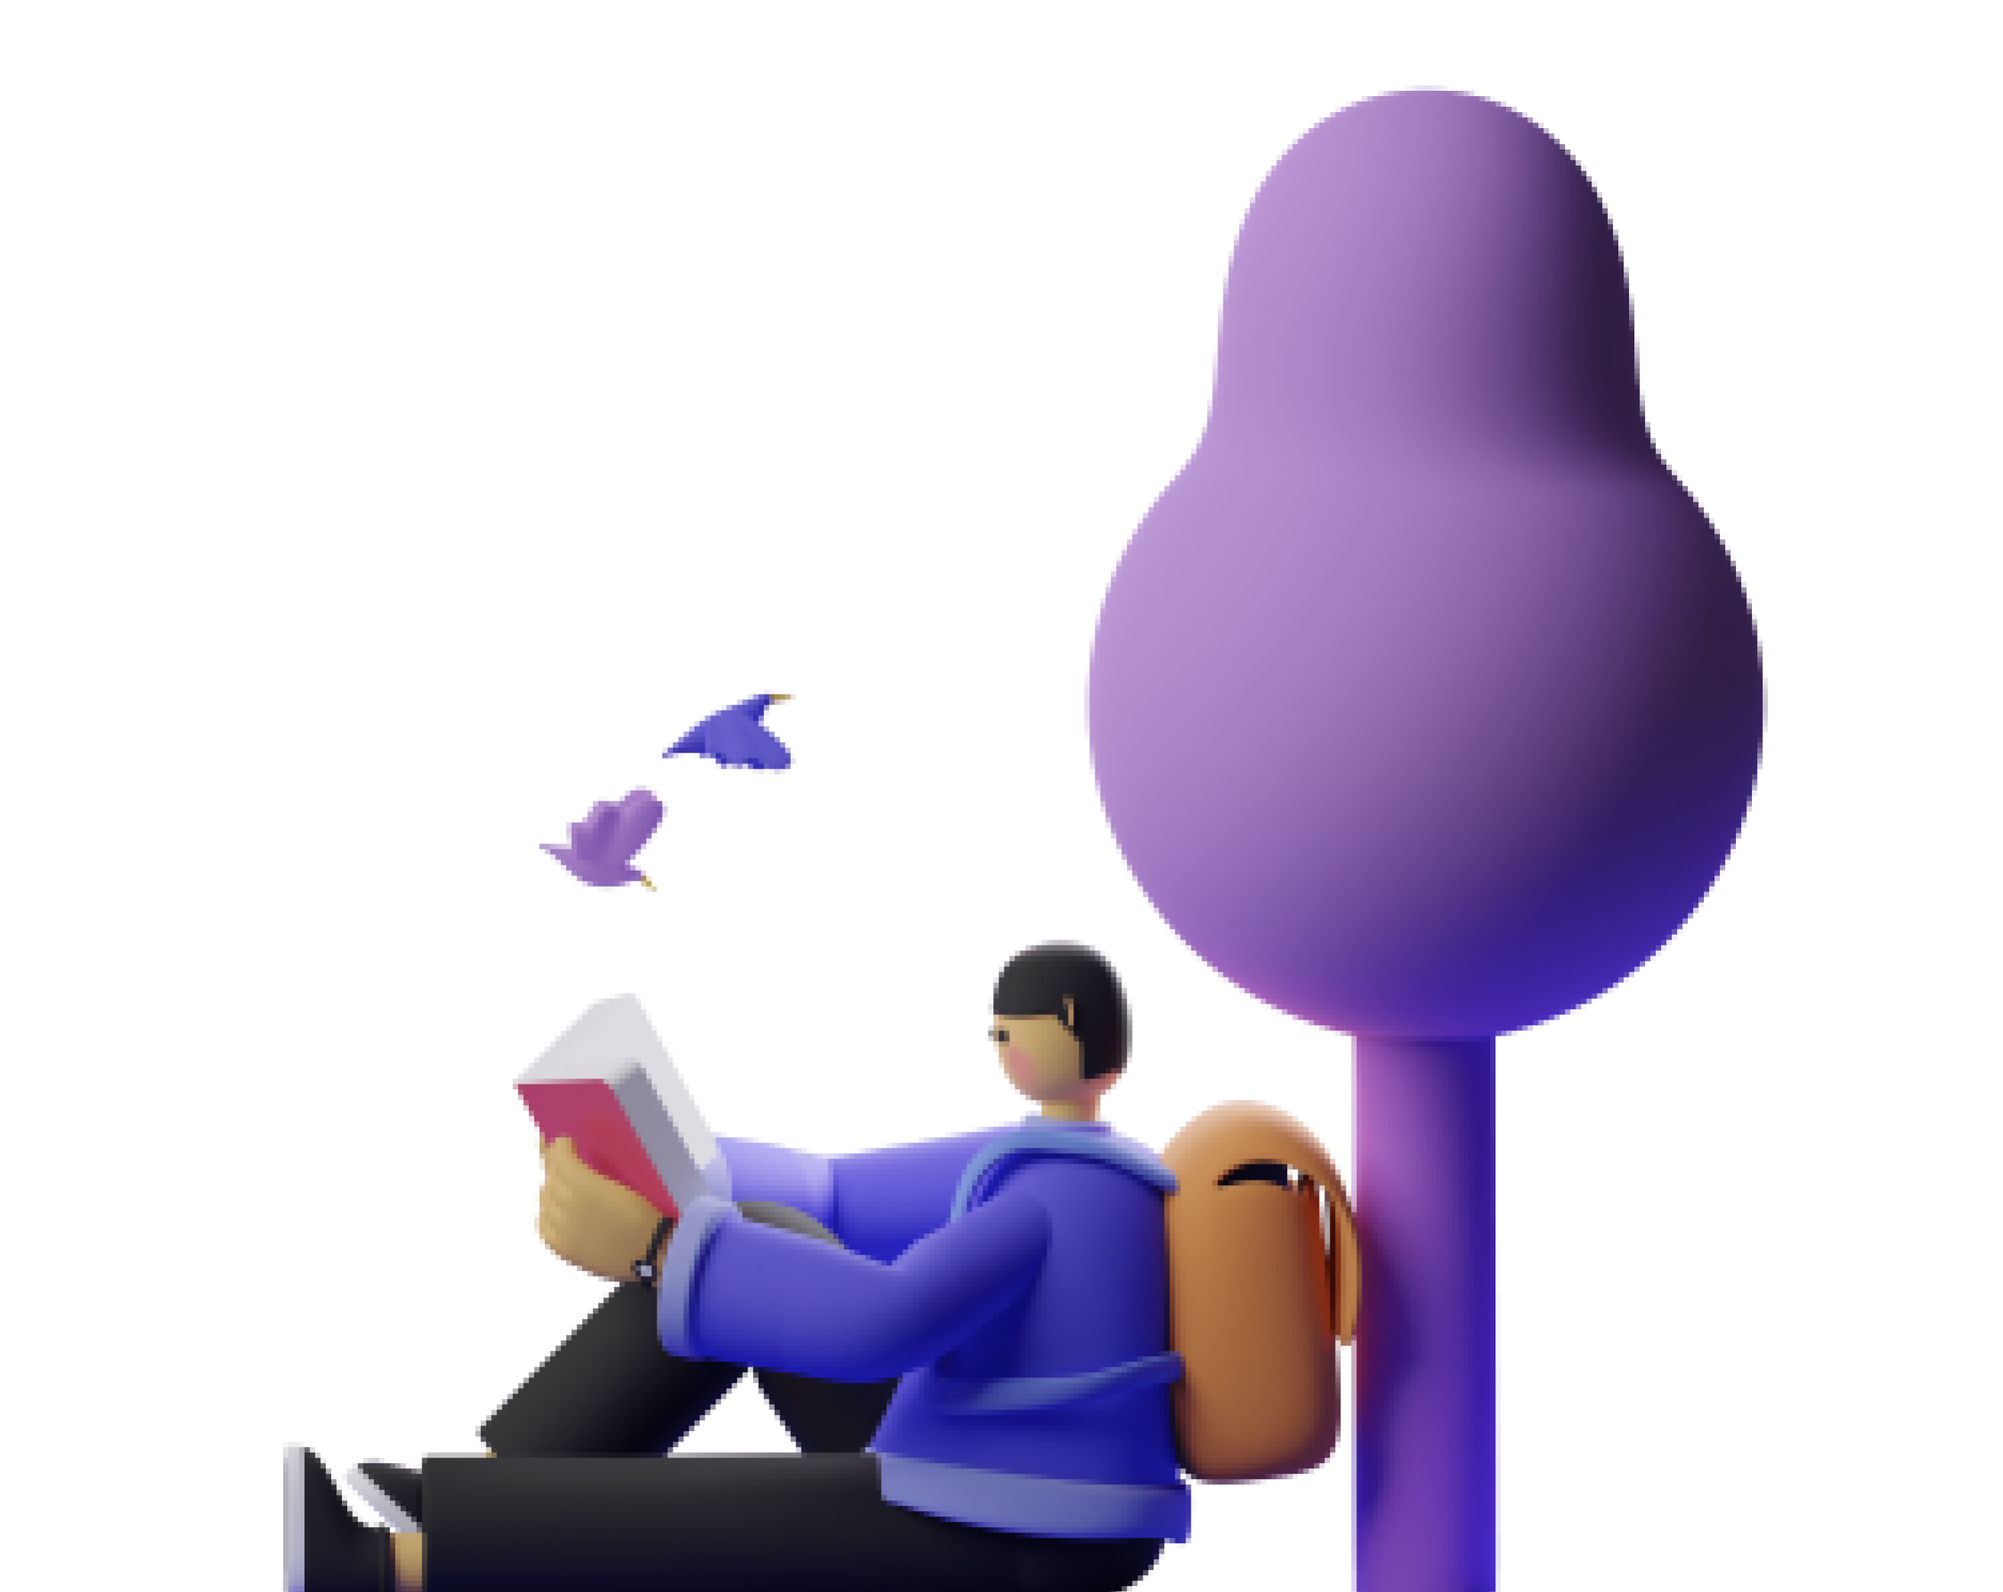
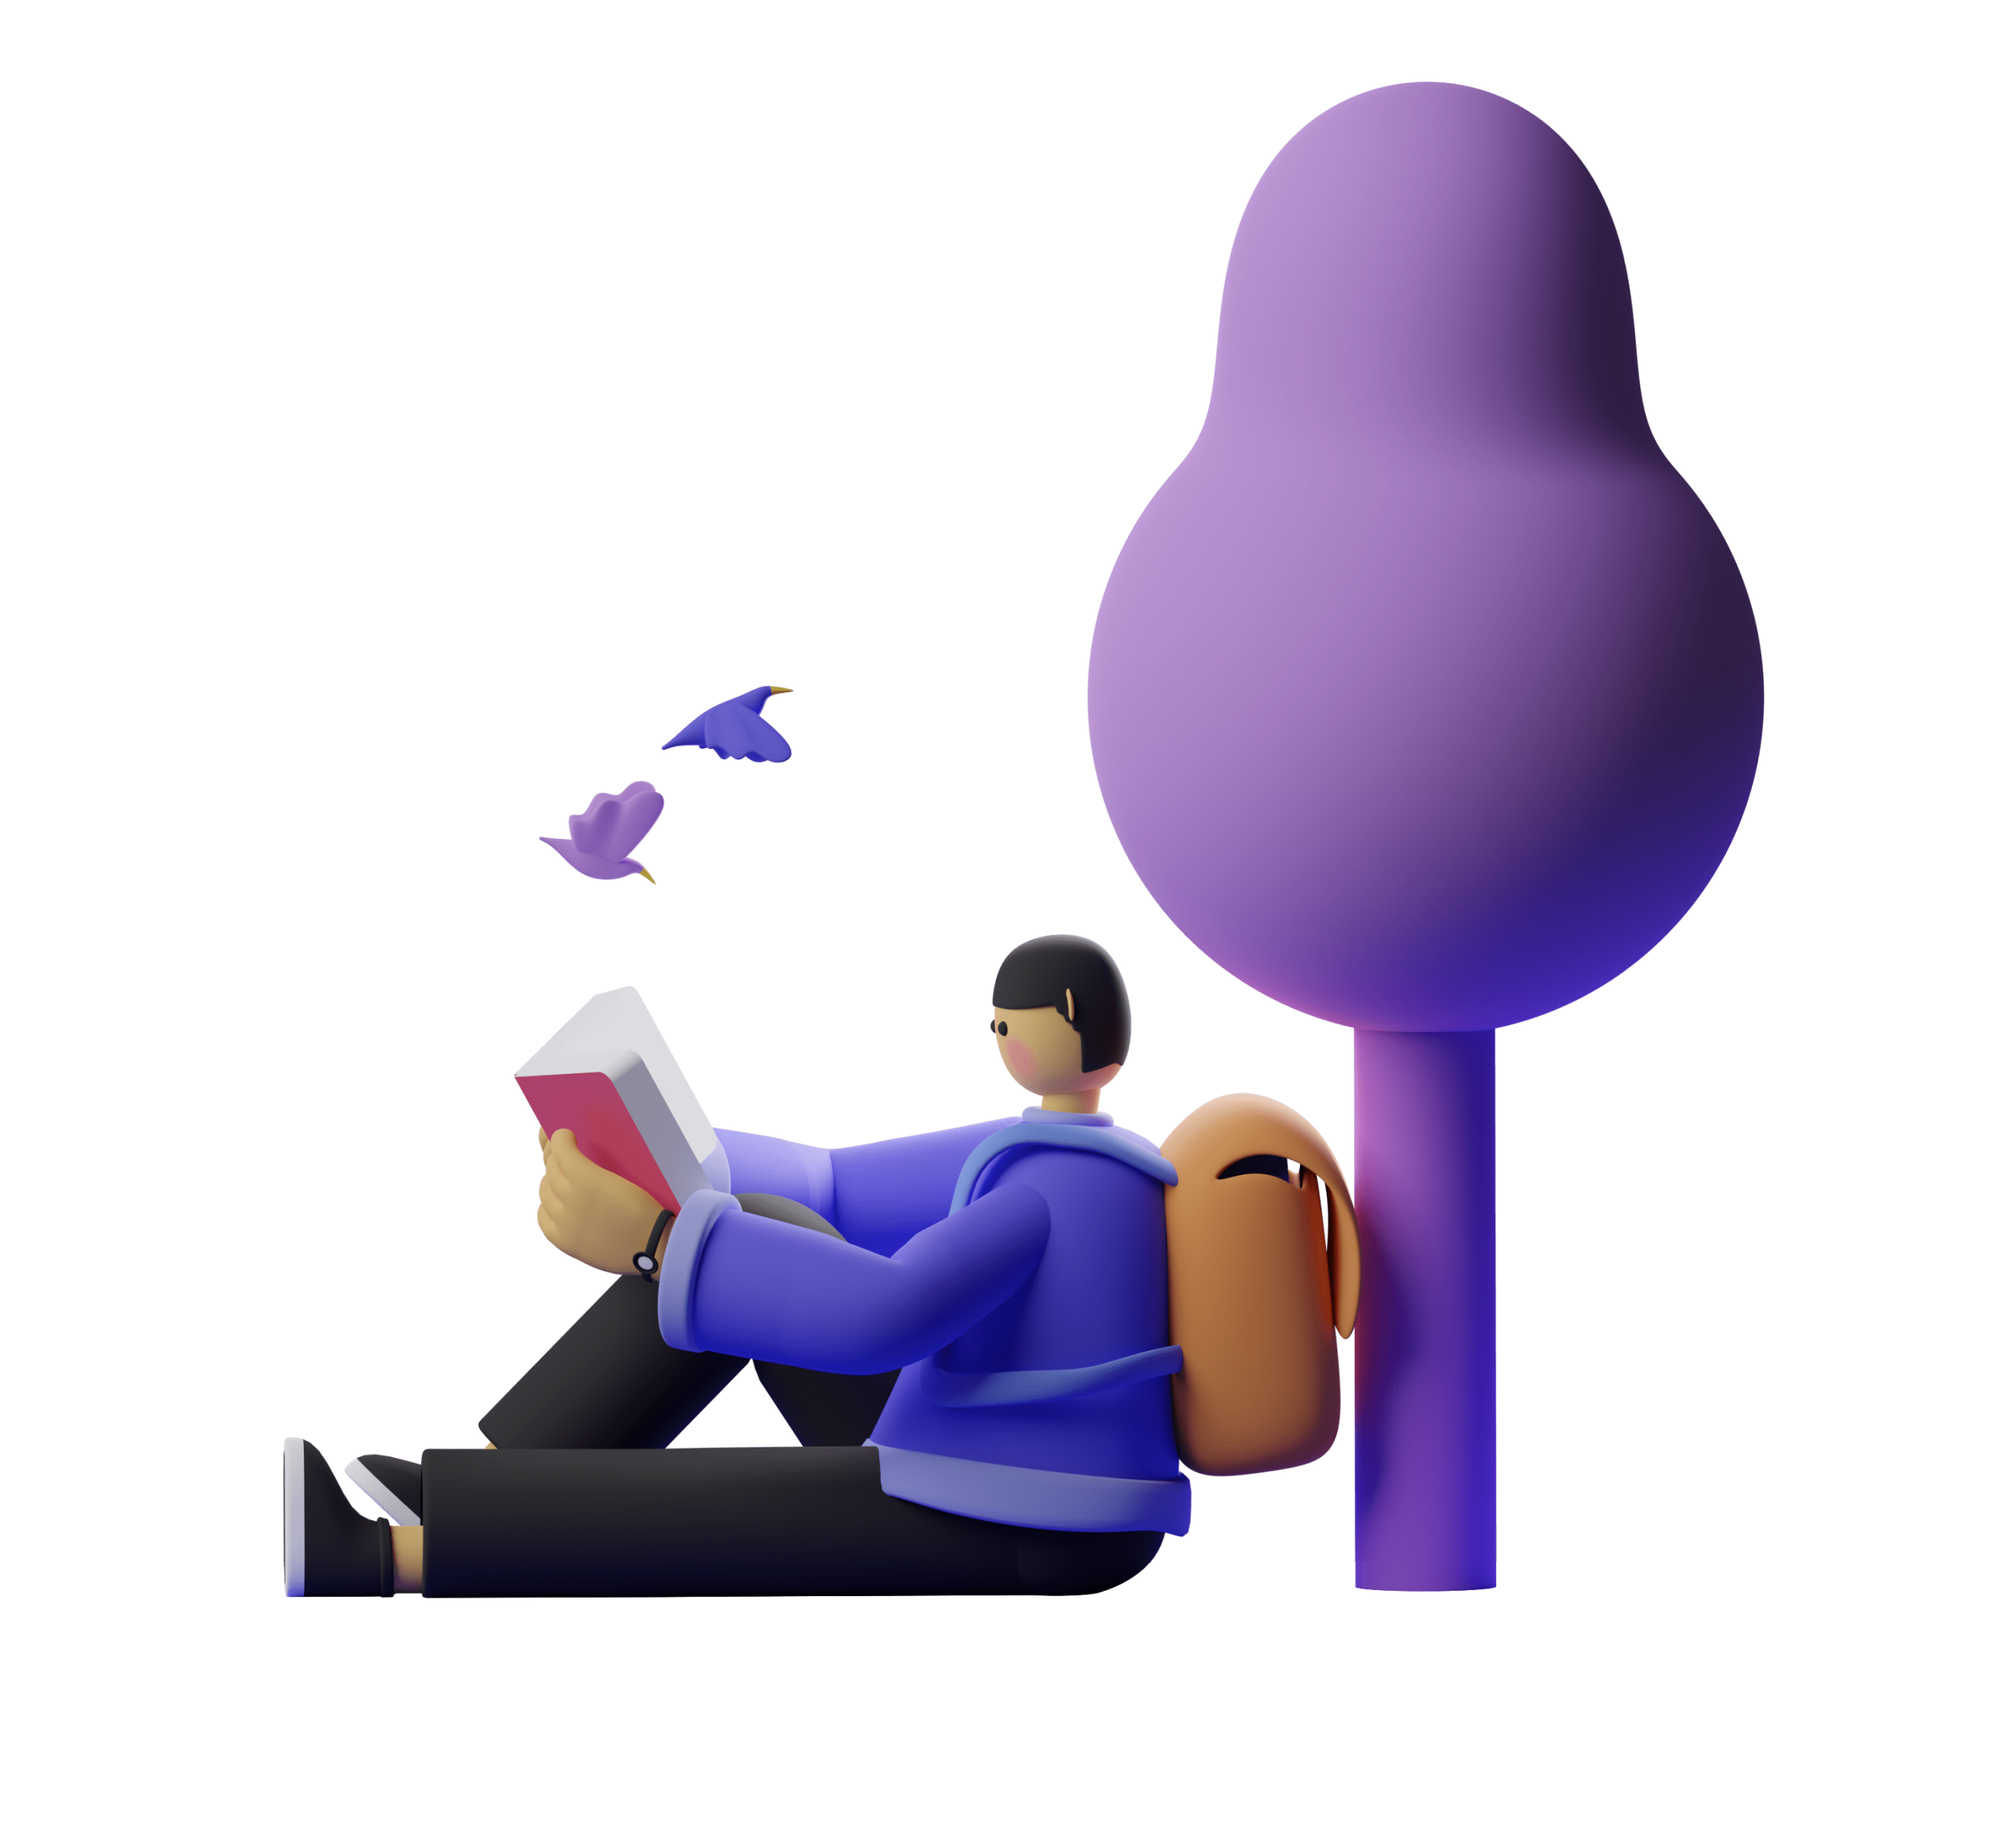
Starters

Changed region(s): [[0.125, 0.1246, 0.9062, 1.0], [0.625, 0.0312, 0.75, 0.1246], [0.75, 0.0623, 0.8125, 0.1558]]

diff --git a/src/assets/index.js b/src/assets/index.js
@@ -3,11 +3,7 @@ import shield from "./Shield.svg";
 import star from "./Star.svg";
 import menu from "./menu.svg";
 import close from "./close.svg";
-import arrowUp from "./arrow-up.svg";
-import facebook from "./facebook.svg";
-import instagram from "./instagram.svg";
-import twitter from "./twitter.svg";
-import heroImg from "./Saly-10.png";
+import heroImg from "./Saly-16.png";
 import page404 from "./404page.svg";
 
 export {
@@ -16,10 +12,6 @@ export {
   star,
   menu,
   close,
-  arrowUp,
-  facebook,
-  instagram,
-  twitter,
   heroImg,
   page404
 };
